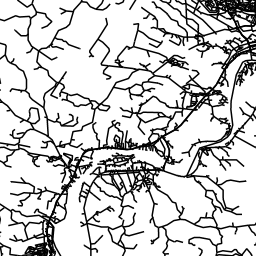
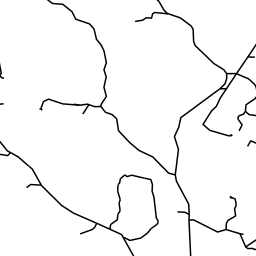
changed zoom to 12

diff --git a/src/main.rs b/src/main.rs
@@ -390,7 +390,7 @@ fn main() {
     let (min_x, max_x, min_y, max_y) = get_min_max_coordinates(&bbox);
     println!("lon_min: {:?}, lat_max: {:?}", min_x, max_y);
     
-    let zoom = 10;
+    let zoom = 12;
 
     // Convert the top left corner of bounding box to slippy tile indices
     let (x_index_tl, y_index_tl) = lon_lat_to_tile_indexes_f32(
@@ -427,7 +427,7 @@ fn main() {
     let rt = Runtime::new().unwrap();
 
     // Block on the async function using the runtime
-    let road_image = rt.block_on(get_slippy_tile(tile_params, MmlTile::Roads.as_str())).expect("Failed to get buildings");
+    let road_image = rt.block_on(get_slippy_tile(tile_params, MmlTile::Roads.as_str())).expect("Failed to get roads");
 
     // Save the image
     save_image_to_file(&road_image, "road_image.png").expect("Failed to save image");
